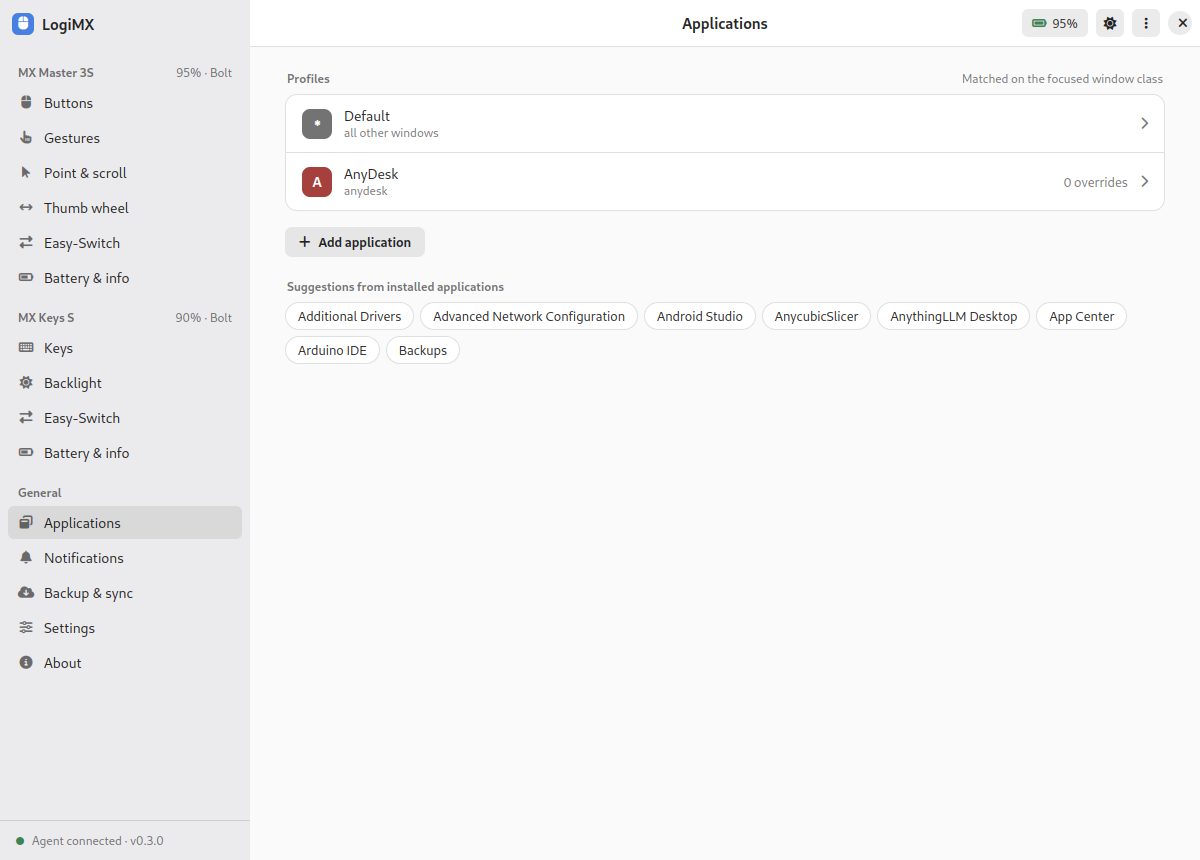
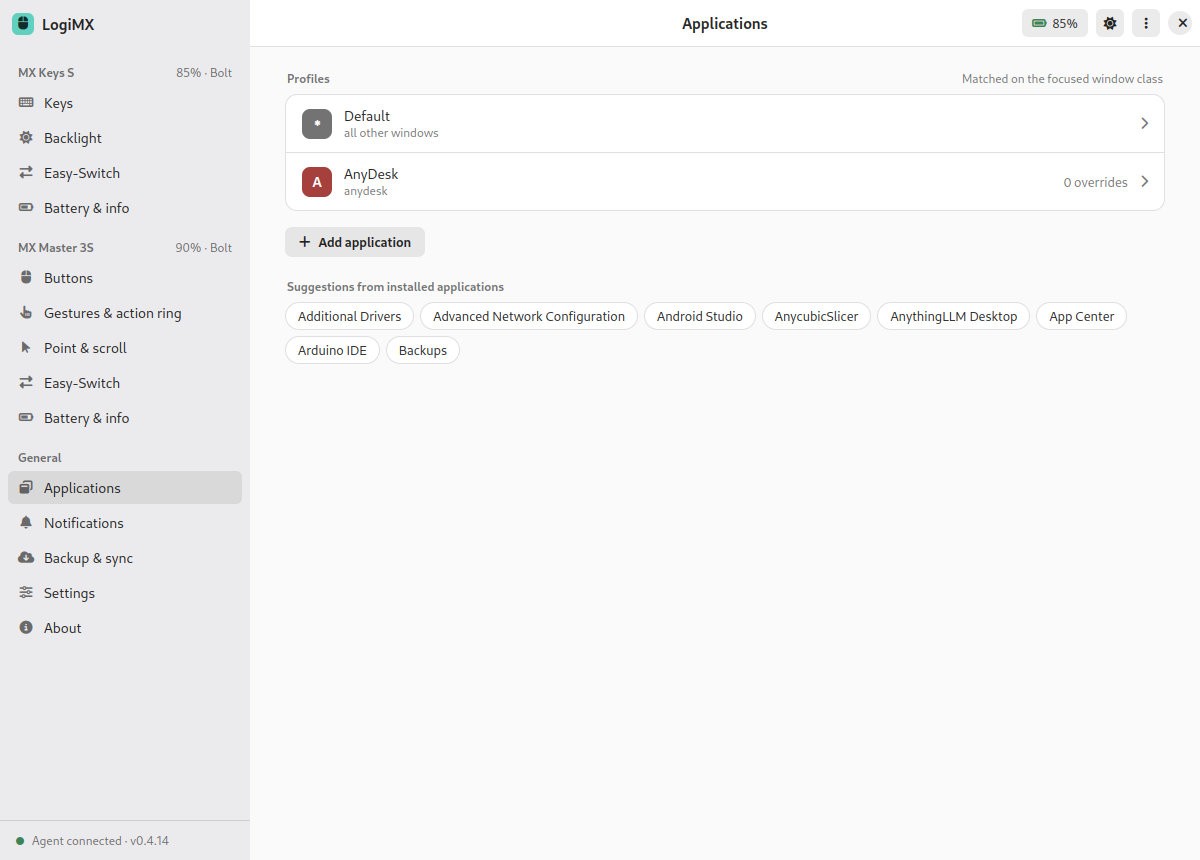
Screenshots for 0.4.14, with the action ring

diff --git a/README.md b/README.md
@@ -93,6 +93,10 @@ Everything
 
 ## Screenshots
 
+| Action ring | Action ring settings |
+|---|---|
+| ![Action ring](screenshots/action-ring-overlay.png) | ![Action ring settings](screenshots/action-ring.png) |
+
 | Gestures | Point and scroll |
 |---|---|
 | ![Gestures](screenshots/mouse-gestures.png) | ![Point and scroll](screenshots/mouse-point-scroll.png) |
